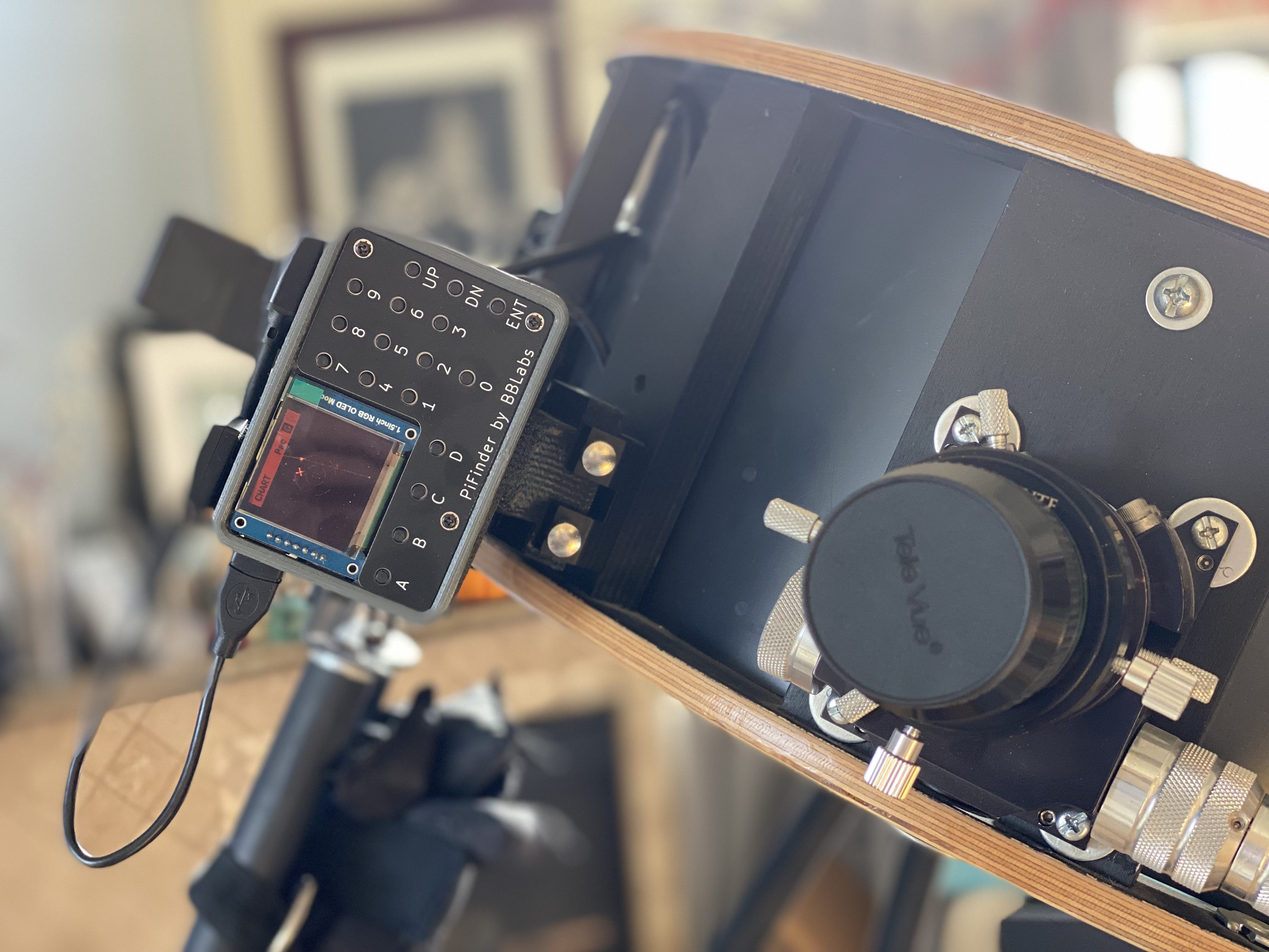
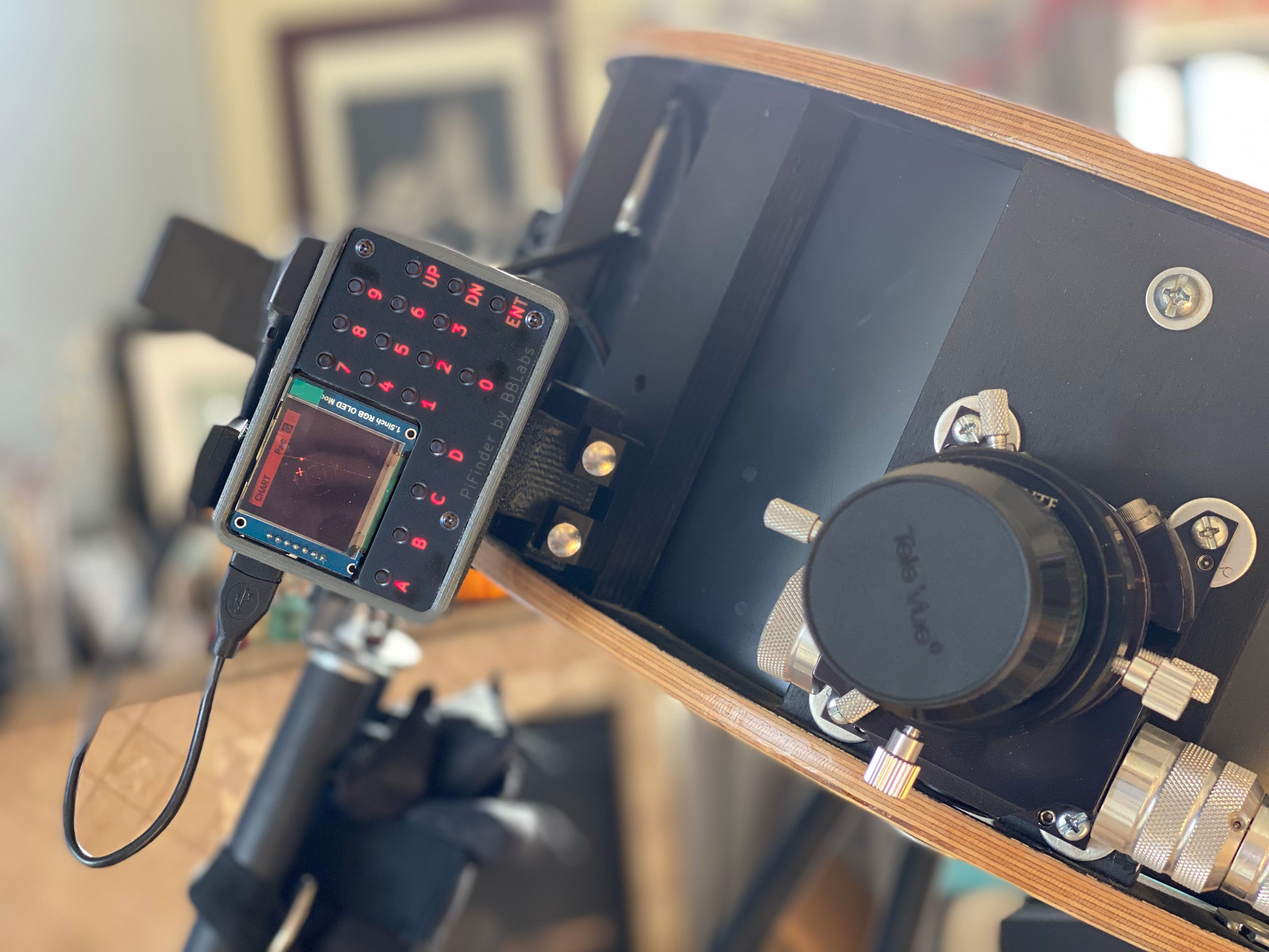
Updated docs for backlight + photos

Changed region(s): [[0.2188, 0.2487, 0.4375, 0.6217], [0.1875, 0.5284, 0.2188, 0.5595]]

diff --git a/docs/build_guide.md b/docs/build_guide.md
@@ -1,6 +1,8 @@
 # Build Guide
 
-Welcome to the PiFinder build guide!  Please consult the [Bill of Materials](./BOM.md) for a full list of parts required and reach out with any questions.  Below are all the parts you'll need for assembly except for the Raspberry Pi model 4 and 3D printed case parts.
+Welcome to the PiFinder build guide!  Please consult the [Bill of Materials](./BOM.md) for a full list of parts required and reach out with any questions.  Below are many of the parts you'll need for assembly.  Not pictured here are the parts for the keypad backlight which is a feature in current versions of the PiFinder.
+
+This guide currently contains a mix of photos from the older, non-backlit, version and the new backlit version, but the build is the same once you get the backlight components installed.
 
 ![Part Layout](../images/build_guide/IMG_4633.jpeg)
 ## PiFinder Hat
@@ -8,13 +10,37 @@ A key part of the PiFinder is a custom 'Hat' which matches the general form fact
 
 It's all through-hole components, so should be approachable to even beginners... but the component build order is important as some items block access to others.
 
+### Backlight Components
+The two resistors are an easy place to start.  R2 is the vertical oriented 330ohm part and R1 is the 22ohm oriented horizontally.  Direction does not matter with these, just make sure they sit flat and trim the leads on the back when they are soldered.
+
+![Resistors](../images/build_guide/led_build_02.jpeg)
+
+The LED's are the next lowest components, so they go next.  Polarity matters here, so mind the direction.  The longer lead of the LED should go through the round hole in the footprint.  The photo below shows the orientation
+
+![LED Orientation](../images/build_guide/led_build_03.jpeg)
+
+Take you time and make sure each is positioned well.  They should be pretty uniform, but little inconsistencies don't matter too much.  I like to place them all in the board, turn it upright and solder one leg of each.  Then I go back and press on each LED as I reheat the one soldered leg to make sure it's sitting flat and even-ish.
+
+![LED Orientation](../images/build_guide/led_build_05.jpeg)
+
+Once I've verified they all look okay, I'll solder the other leg and trim all the leads.
+
+![LED Orientation](../images/build_guide/led_build_06.jpeg)
+
+The final component for the keypad backlight is the drive transistor.  It's located right by R2 and the GPIO connector.  When inserting the part, the flat side of the package should line up with the flat side of the silkscreen.  Once it's inserted fold the flat side of the transistor agains the PCB so it will be clear of the keypad cover PCB
+
+You can see the position/orientation in the image below.  Once you've got it situated, solder it in and clip the leads.
+
+![LED Orientation](../images/build_guide/led_build_08.jpeg)
+
 ### Switches
-Switches are easy and can go first.  Place each one on a footprint and press it down fully.  Once they are all inserted, before you start soldering visually inspect them for any that are tilted.  It's also a good idea to place the top legend plate over them to make sure they all clear the holes properly.  Then solder them up!
-![PCB with switches](../images/build_guide/IMG_4635.jpeg)
+Switches are easy and can go next.  Place each one on a footprint and press it down fully.  Once they are all inserted, before you start soldering visually inspect them for any that are tilted.  
 
-![PCB with switches installed and leveled](../images/build_guide/IMG_4636.jpeg)
+![PCB with switches](../images/build_guide/led_build_10.jpeg)
 
-![PCB with switches soldered](../images/build_guide/IMG_4639.jpeg)
+It's also a good idea to place the top legend plate over them to make sure they all clear the holes properly.  Then solder them up!
+
+![PCB with switches soldered](../images/build_guide/led_build_11.jpeg)
 
 ### IMU
 The Inertial Measurement unit is next.  The IMU has an annoyingly bright green LED on it, which you will probably want to paint over with a drop of black nail polish.  It can be done after it's soldered, but it's much easier before hand.  See the image below to ID the offending component.

diff --git a/docs/BOM.md b/docs/BOM.md
@@ -10,6 +10,10 @@ These are the electronic bits needed to build the Display/Keypad unit that fits 
 | --- | -------------------------------------------- | ------------------------------------------------------- | ------------------------------------------------------------------------------------- |
 | 1   | PCB Set                                      | https://github.com/brickbots/PiFinder/tree/main/gerbers | You'll need a PiFinder board and the PiFinder top plate                               |
 | 17  | 6 x 6mm x 7mm PCB Momentary Switch 4 Pin DIP |                                                         | Diptonics DTS63K 1nm recommended                                                      |
+| 17  | Red 1.8 mm (miniplast) leds| https://www.mouser.com/ProductDetail/78-TLUR2401                                                        | These need to be 2.5W x 3.3L x 3H to fit properly|
+| 1   | 2N222A NPN Transitor | https://www.mouser.com/ProductDetail/637-2N2222A                                                        | Diptonics DTS63K 1nm recommended                                                      |
+| 1   | 22ohm Axial Resistor | | R01 |
+| 1   | 330ohm Axial Resistor | R02 | |
 | 1   | Waveshare 1.5 RGB Oled                       | https://www.waveshare.com/wiki/1.5inch_OLED_Module      |                                                                                       |
 | 1   | Adafruit IMU Fusion Breakout - BNO055        | https://www.adafruit.com/product/4646                   |                                                                                       |
 | 1   | 2x20 40 Pin Stacking Female Header           | https://www.amazon.com/dp/B0827THC7R                    | Depending on your heatsink/clearance you'll need long pins on this to make up the gap |

diff --git a/docs/user_guide.md b/docs/user_guide.md
@@ -28,6 +28,8 @@ Along with the 1.5" oled screen, the keypad has three primary parts, a numeric k
 - If the GPS has locked and provided a location, the GPS square in the status bar will be filled in and the G will be in black.  
 - The solver status will show either C (Camera) or I (IMU) depending on the source of the last position fix.  The background of this square fades from red to black, over six seconds, indicating the time since last solve.  
 
+### Brightness Adjustment
+At any time you can hold down the _ENT_ key and press the _UP_/_DN_ keys to adjust the screen and backlight brightness together.  If you want to change the keypad brightness relative to the screen, you can set this in the Options page of the Status screen with the rest of the global options.  The setting there allows you to make the keypad brighter or dimmer relative to the screen or turn it off all together.  Once you have the two balanced to your liking, the _ENT + UP/DN_ should be all you need during and observing session to fine-tune the overall PiFinder brightness.
 
 ### Power Save Mode
 

diff --git a/README.md b/README.md
@@ -18,7 +18,7 @@ My hope is that other people will find this combination of functionality useful,
 * Zero setup: Just turn it on and point it at the sky!  
 * Accurate pointing: Onboard GPS determines location and time while the camera determines where the scope is pointing.  Inertial Measurement Unit tracks scope motion and updates sky position between camera solves
 * Self-contained:  Includes catalog search/filtering, sky/object charting, push-to guidance and logging all via the screen and keypad on the unit.
-* Dark site friendly:  Red Oled screen has wide brightness adjustment, right down to 'off'. No need for bright cell phones or tablets
+* Dark site friendly:  Red OLED screen and soft backlit keys have wide brightness adjustment, right down to 'off'. No need for bright cell phones or tablets
 * Easy access: Can be mounted by the eyepiece just like a finder.
 - Wifi Access Point / SkySafari Integration:  The PiFinder can act as a WIFI access point to connect your tablet or phone to sync SkySafari or other planetarium software with your scope.
 
